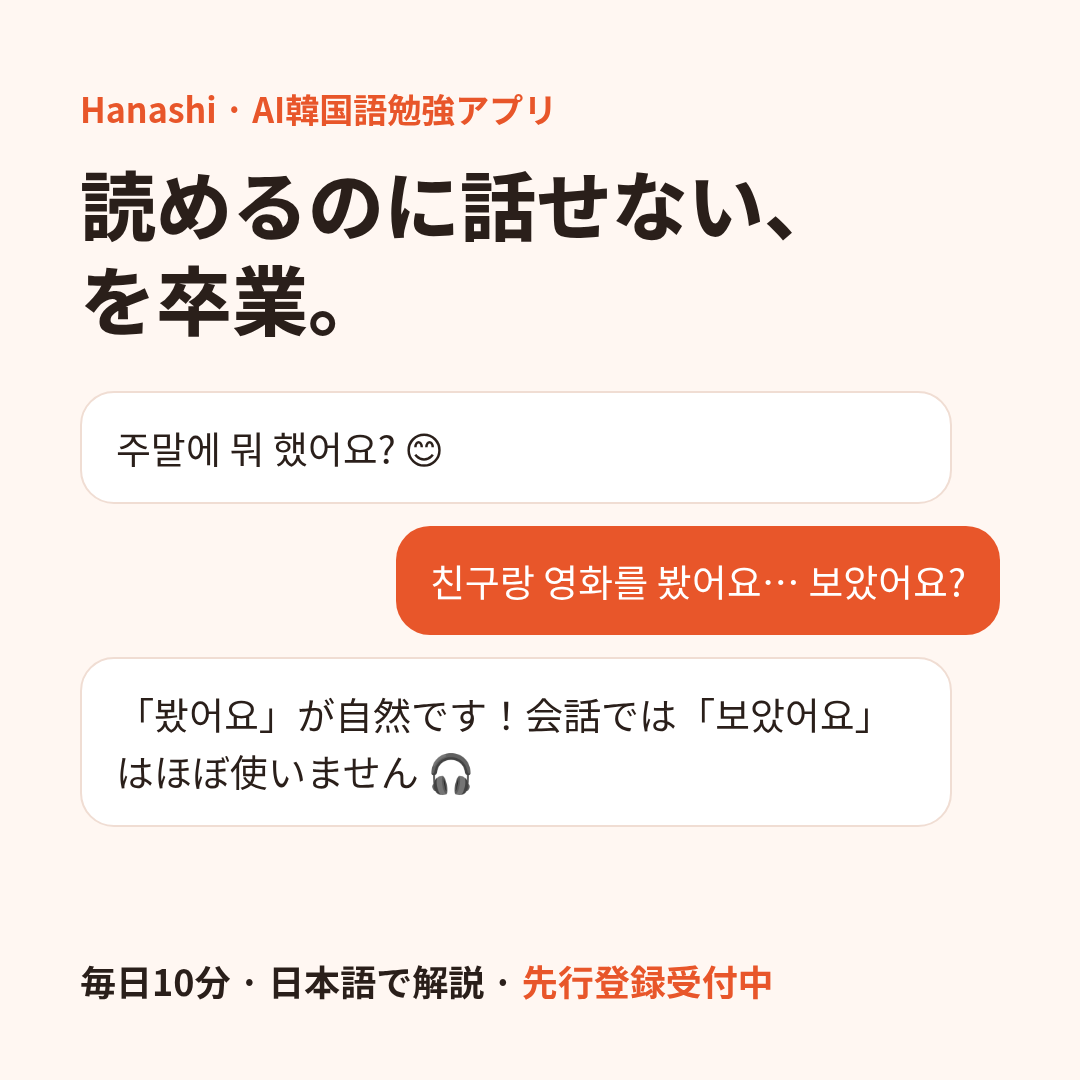
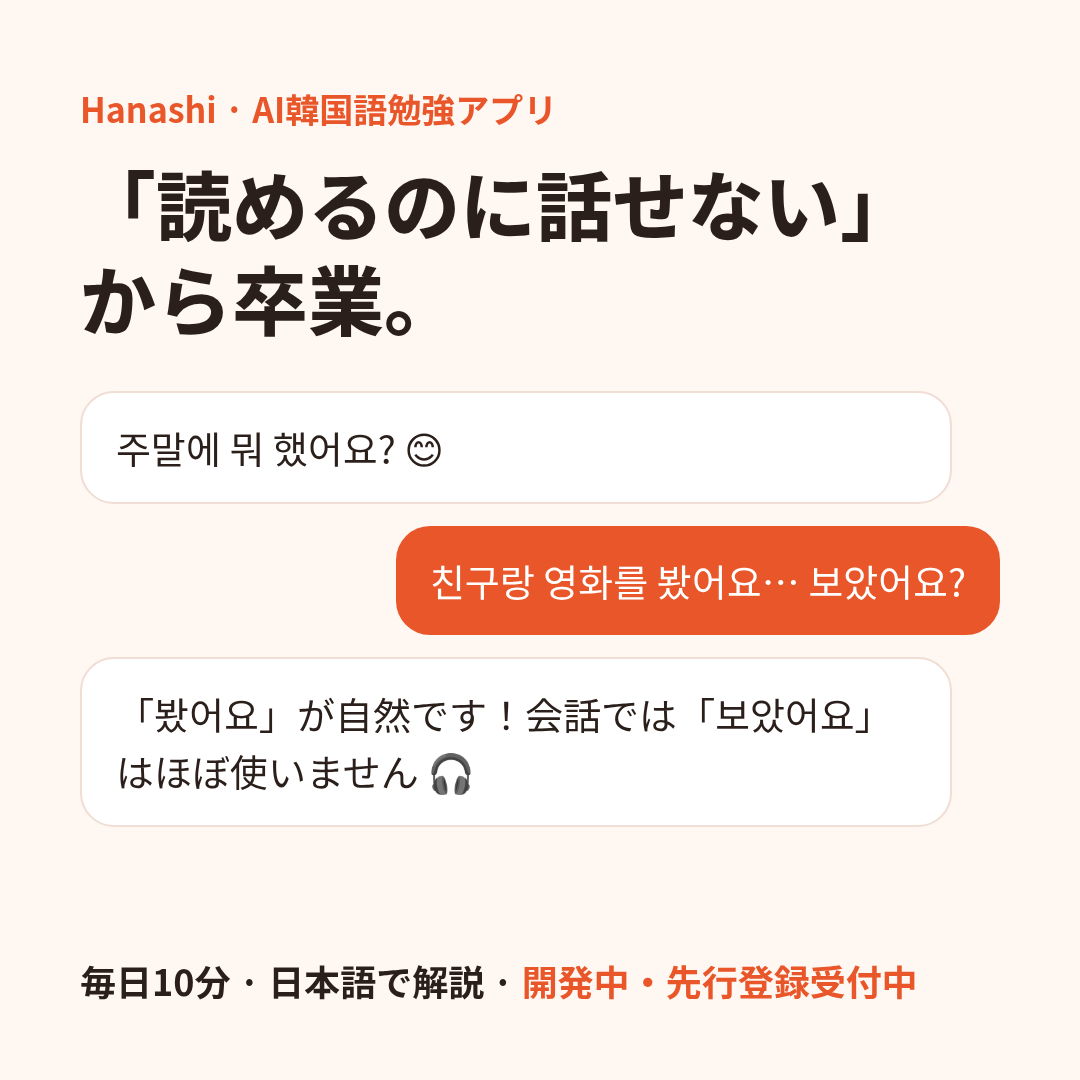
fix: GPT 검토 반영 — 개발 중 명시, 予定価格(가격 유지 약속 삭제), 근거 없는 표현 수정, 개인정보 안내, 소재 2종(A·C)

Changed region(s): [[0.0611, 0.1528, 0.825, 0.3056], [0.4889, 0.8861, 0.8556, 0.9472]]

diff --git a/index.html b/index.html
@@ -27,43 +27,44 @@ ul{padding-left:20px}li{margin:6px 0}
 </style>
 </head>
 <body><div class="wrap">
-<div class="eyebrow">先行登録受付中 · 日本語で学べるAI韓国語勉強アプリ</div>
-<h1>韓国語、読めるのに<br>話せないまま終わっていませんか？</h1>
-<p class="lead">Hanashi（ハナシ）は、韓国人ネイティブが監修したAIと<strong>毎日10分、本物の会話練習</strong>をするアプリです。間違えても大丈夫。発音・自然な言い回し・文化の背景まで、その場で日本語で解説します。</p>
+<div class="eyebrow">現在開発中 · 先行登録受付中 · 日本語で学べるAI韓国語勉強アプリ</div>
+<h1>韓国語は読める。<br>でも、話そうとすると言葉が出てこない？</h1>
+<p class="lead">Hanashi（ハナシ）は、AIと<strong>毎日10分、韓国語で会話練習</strong>をするアプリです（現在開発中）。間違えたところや自然な言い回しを、その場で日本語でやさしく解説します。内容は韓国語ネイティブがチェックします。</p>
 
 <div class="chat">
 <div class="b ai">주말에 뭐 했어요? 😊</div>
 <div class="b me">친구랑 영화를 봤어요… 보았어요?</div>
 <div class="b ai">「봤어요」が自然です！「보았어요」も正しいですが、会話ではほぼ使いません。もう一度言ってみましょう 🎧</div>
-<div class="note">発音は録音して即フィードバック。推しのインタビューや韓国ドラマのフレーズでも練習できます。</div>
+<div class="note">画面は開発中のイメージです。旅行・推し活・ドラマのフレーズなど、身近な場面で練習できるようにする予定です。</div>
 </div>
 
 <h2>こんな人のために</h2>
 <ul>
-<li>TOPIK・ハングル検定の勉強はしたけれど、<strong>会話になると固まる</strong></li>
+<li>TOPIK・ハングル検定の勉強はしたけれど、<strong>いざ会話になると言葉が出てこない</strong></li>
 <li>韓国旅行・推し活・留学の前に、<strong>通じる韓国語</strong>を身につけたい</li>
 <li>英会話アプリ（Speak・ELSA）の韓国語版が<strong>ずっと欲しかった</strong></li>
 </ul>
 
-<h2>料金（先行登録者価格）</h2>
-<div class="price"><b>¥1,500</b><span>/ 月 · いつでも解約 · 7日間無料</span></div>
-<p class="lead" style="font-size:15px">リリース時にメールでご案内します。先行登録者には初月価格を据え置きます。</p>
+<h2>料金（予定）</h2>
+<div class="price"><b>¥1,500</b><span>/ 月（予定）· 7日間無料体験を予定</span></div>
+<p class="lead" style="font-size:15px">リリース予定価格です。先行登録は無料で、決済はありません。リリース時にメールでお知らせします。</p>
 
 <div id="f" class="cta">
-<p><strong>メールアドレス</strong>を登録するだけ（案内以外には使いません）</p>
+<p><strong>現在開発中です。</strong>メールアドレスだけで先行登録できます。リリースのお知らせ以外には使用しません。いつでも登録解除できます。</p>
 <form id="reg" novalidate>
 <input id="em" type="email" inputmode="email" autocomplete="email" placeholder="you@example.com" required aria-label="メールアドレス">
 <select id="why" aria-label="韓国語を勉強する一番の目的">
 <option value="">韓国語を勉強する一番の目的は？（任意）</option>
 <option>旅行・推し活</option><option>TOPIK などの試験</option><option>仕事・留学</option><option>趣味</option>
 </select>
-<button class="btn" id="cta" type="submit">先行登録する（無料・10秒）</button>
+<button class="btn" id="cta" type="submit">無料で先行登録する</button>
 </form>
 <p id="msg" class="fine" style="margin-top:10px" role="status"></p>
 <p class="fine">うまく送信できない場合は <a href="https://docs.google.com/forms/d/e/1FAIpQLSdh86XdbPOyeYI0Jo7mYohg_MqXQexbrjVCiZBGmiMuUGCDcA/viewform" rel="noopener">こちらのフォーム</a> から登録できます。</p>
 </div>
 
 <p class="fine">Hanashiは日本在住の韓国語学習者向けに準備中のサービスです。本ページは需要確認のための先行登録ページで、現時点では決済は発生しません。配信停止はいつでも可能です。</p>
+<p class="fine" id="privacy"><strong>個人情報の取り扱い</strong>：取得するのはメールアドレスと（任意の）学習目的のみです。リリースのお知らせ以外には使用せず、第三者に提供しません。登録情報はGoogleフォーム（Google LLC）に保存されます。登録解除・削除をご希望の場合は、お知らせメールへの返信でいつでも対応します。</p>
 </div>
 <script>
 // Registration posts straight to the Google Form (same data as the form page) so nobody has to leave this page.

diff --git a/ads/hanashi-1080.html b/ads/hanashi-1080.html
@@ -5,8 +5,8 @@ html,body{margin:0;width:1080px;height:1080px;background:#fff7f2;font-family:"No
 .ai{background:#fff;border:2px solid #f0ddd3}.me{background:#e8562a;color:#fff;margin-left:auto;width:fit-content}
 .f{position:absolute;left:80px;bottom:74px;font-size:36px;font-weight:700}.f span{color:#e8562a}
 </style><div class="w"><div class="e">Hanashi · AI韓国語勉強アプリ</div>
-<div class="h">読めるのに話せない、<br>を卒業。</div>
+<div class="h">「読めるのに話せない」<br>から卒業。</div>
 <div class="b ai">주말에 뭐 했어요? 😊</div>
 <div class="b me">친구랑 영화를 봤어요… 보았어요?</div>
 <div class="b ai">「봤어요」が自然です！会話では「보았어요」はほぼ使いません 🎧</div>
-<div class="f">毎日10分 · 日本語で解説 · <span>先行登録受付中</span></div></div></html>
+<div class="f">毎日10分 · 日本語で解説 · <span>開発中・先行登録受付中</span></div></div></html>

diff --git a/ads-jp.md b/ads-jp.md
@@ -1,31 +1,30 @@
 # A1 광고 소재 (일본어) — Meta, 1차 ₩50,000 · 4일 (신호가 있으면 ₩95,000 · 7일까지 연장)
 
-근거(2026-10-03 일본 Google 월 검색): 韓国語 勉強 アプリ 5,400 · 韓国語 アプリ 3,600 · TOPIK 27,100 · 韓国語 会話 アプリ 590 → 소재를 勉強 / TOPIK / 会話 세 갈래로 나눠 어느 의도가 클릭·등록을 만드는지 본다.
+근거(2026-10-03 일본 Google 월 검색): 韓国語 勉強 アプリ 5,400 · 韓国語 アプリ 3,600 · TOPIK 27,100 · 韓国語 会話 アプリ 590 → 1차는 勉強(넓은 대조군)과 会話(읽지만 말 못 함) 두 갈래로 — 어느 의도가 클릭·등록을 만드는지 본다.
 랜딩: https://kibaekjeong.github.io/hanashi-landing/ (등록 = Google Form, 로그인 불필요)
 판정(사전 등록 2026-10-03 12:52, 변경 없음): 등록 ÷ 랜딩 방문 3% 이상 통과. 표본이 작으므로 0~1명 = 실패, 8명+ = 강한 신호, 그 사이는 연장해서 판정. 소재 비교는 Meta의 소재별 클릭 수(폼에는 소재가 남지 않는다).
 
 ## 캠페인 설정
 - 목표: 트래픽(랜딩 페이지 조회) · 지역: 일본 · 언어: 일본어 · 연령 18~44 · 노출 위치: Advantage+(자동)
-- 예산: 총 ₩50,000(통산 예산), 4일 · 광고 세트 1개 · 광고 3개(아래)
+- 예산: 총 ₩50,000(통산 예산), 4일 · 광고 세트 1개 · 광고 2개(A·C)
 - 페이지: Hanashi · 이미지: 랜딩의 대화 화면 캡처(인물·아이돌 사진 금지)
 
-## 소재 A — 勉強 アプリ
-- 기본 문구: 韓国語の勉強アプリ、続かなかった人へ。AIと毎日10分、日本語の解説つきで「話せる」韓国語に。先行登録で月¥1,500据え置き。
+## 소재 A — 넓은 대조군 (勉強が続かなかった人)
+- 기본 문구: 韓国語の勉強が続かなかった人へ。AIと毎日10分、韓国語で会話練習。間違えたところは日本語ですぐに解説します。現在開発中・先行登録は無料。リリース予定価格は月額¥1,500。
 - 제목: 日本語で学べるAI韓国語勉強アプリ
-- 설명: 先行登録受付中（無料）
+- 설명: 現在開発中・先行登録受付中（無料）
 - 링크: https://kibaekjeong.github.io/hanashi-landing/?utm_source=meta&utm_campaign=a1&utm_content=benkyo
 - 버튼: 登録する
 
-## 소재 B — TOPIK
-- 기본 문구: TOPIKの勉強はしたのに、会話になると固まる。AIが発音と言い回しをその場で直します。日本語解説つき、1日10分から。
-- 제목: TOPIKの次は「話せる韓国語」
-- 설명: 先行登録受付中（無料）
-- 링크: https://kibaekjeong.github.io/hanashi-landing/?utm_source=meta&utm_campaign=a1&utm_content=topik
-- 버튼: 登録する
-
-## 소재 C — 会話(공감)
-- 기본 문구: 韓国語、読めるのに話せない？ネイティブ監修のAIと本物の会話練習。間違えても大丈夫、日本語でやさしく解説します。
-- 제목: 読めるのに話せない、を卒業
-- 설명: 先行登録受付中（無料）
+## 소재 C — 날카로운 문제 가설 (読めるのに話せない)
+- 기본 문구: 韓国語は読める。でも、話そうとすると言葉が出てこない？ AIと韓国語で会話練習。間違えたところは、日本語ですぐにやさしく解説します。現在開発中・先行登録は無料。
+- 제목: 「読めるのに話せない」から卒業
+- 설명: 現在開発中・先行登録受付中（無料）
 - 링크: https://kibaekjeong.github.io/hanashi-landing/?utm_source=meta&utm_campaign=a1&utm_content=kaiwa
 - 버튼: 登録する
+
+## 보류 — 소재 B (TOPIK)
+1차에서는 뺀다(GPT 검토 2026-10-04: 클릭 70~200에 소재 3개는 비교가 잡음, TOPIK 검색은 시험 일정·결과 의도가 섞임). 1차에 신호가 있으면 2차에서 승자와 비교.
+- 기본 문구: TOPIKの勉強はしたのに、いざ会話になると言葉が出てこない。AIとの会話中に、自然な言い回しや間違いを日本語でフィードバック。1日10分から。
+- 제목: TOPIKの次は「話せる韓国語」
+- 링크: …&utm_content=topik
